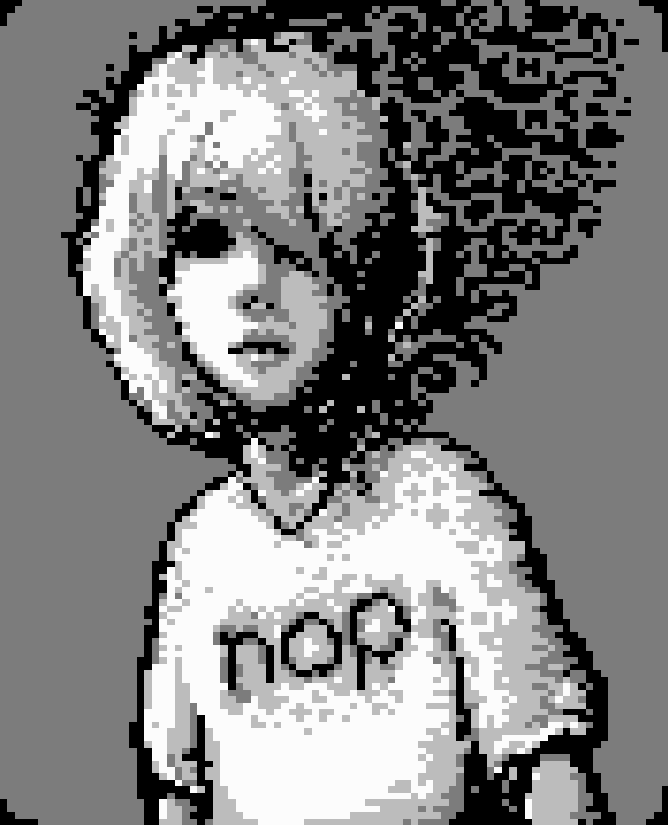
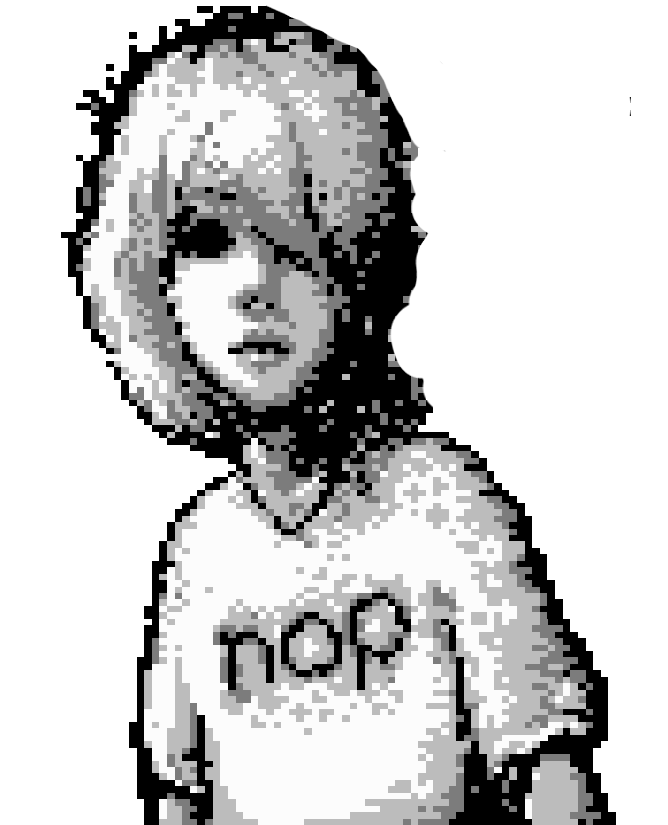
fix: bug #931, integer assignment to byte array fails for m68k

diff --git a/source/Compiler/codegen/codegen_m68k.cpp b/source/Compiler/codegen/codegen_m68k.cpp
@@ -465,18 +465,25 @@ void CodeGen68k::dispatch(QSharedPointer<NodeProcedureDecl> node)
 }
 void CodeGen68k::dispatch(QSharedPointer<NodeVar> node)
 {
-    //    LoadVariable(node);
 
     if (m_inlineParameters.contains(node->value)) {
-        //      qDebug()<< "INLINE node override : "<< node->value;
         m_inlineParameters[node->value]->Accept(this);
         return;
     }
 
 
     if (node->m_expr!=nullptr) {
-        //        qDebug() << "HERE";
         LoadVariable(node);
+        return;
+    }
+    QString endian="";
+    // special case: if you need to load an integer var, but forced to use byte.
+    if (node->getOrgType(as)==TokenType::INTEGER && node->getLoadType()==TokenType::BYTE) {
+        as->Comment("Casting an integer to a byte");
+        auto a = as->m_regAcc.Get();
+        as->Asm("move.w "+node->getValue(as)+","+a);
+        as->m_varStack.push(a);
+        as->m_regAcc.Pop(a);
         return;
     }
     as->m_varStack.push(node->getValue(as));
@@ -538,14 +545,17 @@ void CodeGen68k::StoreVariable(QSharedPointer<NodeVar> n)
             if (n->getArrayType(as)==TokenType::LONG)
                 val*=4;*/
             QString a0 = as->m_regMem.Get();
+            QString endianShift = "";
+
 
             if (n->getType(as)==TokenType::POINTER)
                 TransformVariable("move.l",a0,n->getValue(as));
             else
                 TransformVariable("lea",a0,n->getValue(as));
 
+//            if (n->getArrayType(as)==TokenType::BYTE && n->m_expr->)
             //            as->Comment(";general X");
-            TransformVariable("move"+getEndType(n),Util::numToHex(val)+"("+a0+")",d0);
+            TransformVariable("move"+getEndType(n),Util::numToHex(val)+"("+a0+")",d0 + endianShift);
 
             as->m_regMem.Pop(a0);
             return;
@@ -1110,6 +1120,9 @@ void CodeGen68k::AssignVariable(QSharedPointer<NodeAssign> node) {
 
     if (node->m_left->getType(as)==TokenType::INTEGER) {
         node->m_right->setLoadType(TokenType::INTEGER); // FORCE integer on right-hand side
+    }
+    if (node->m_left->getArrayType(as)==TokenType::BYTE) {
+        node->m_right->setLoadType(TokenType::BYTE); // FORCE byte on right-hand side
     }
     if (node->m_left->getType(as)==TokenType::LONG) {
         node->m_right->setLoadType(TokenType::LONG); // FORCE integer on right-hand side

diff --git a/source/LeLib/util/tool.cpp b/source/LeLib/util/tool.cpp
@@ -120,6 +120,8 @@ void Tool::PathTool(QString svgFile, QString outBinary, int dataCount, float deg
     for (int i=0;i<coords.count();i+=3) {
         QStringList l = coords[i].split(",");
         QVector3D p;
+        if (l.count()!=2)
+            continue;
         p.setX(l[0].toFloat());
         p.setY(l[1].toFloat());
 
